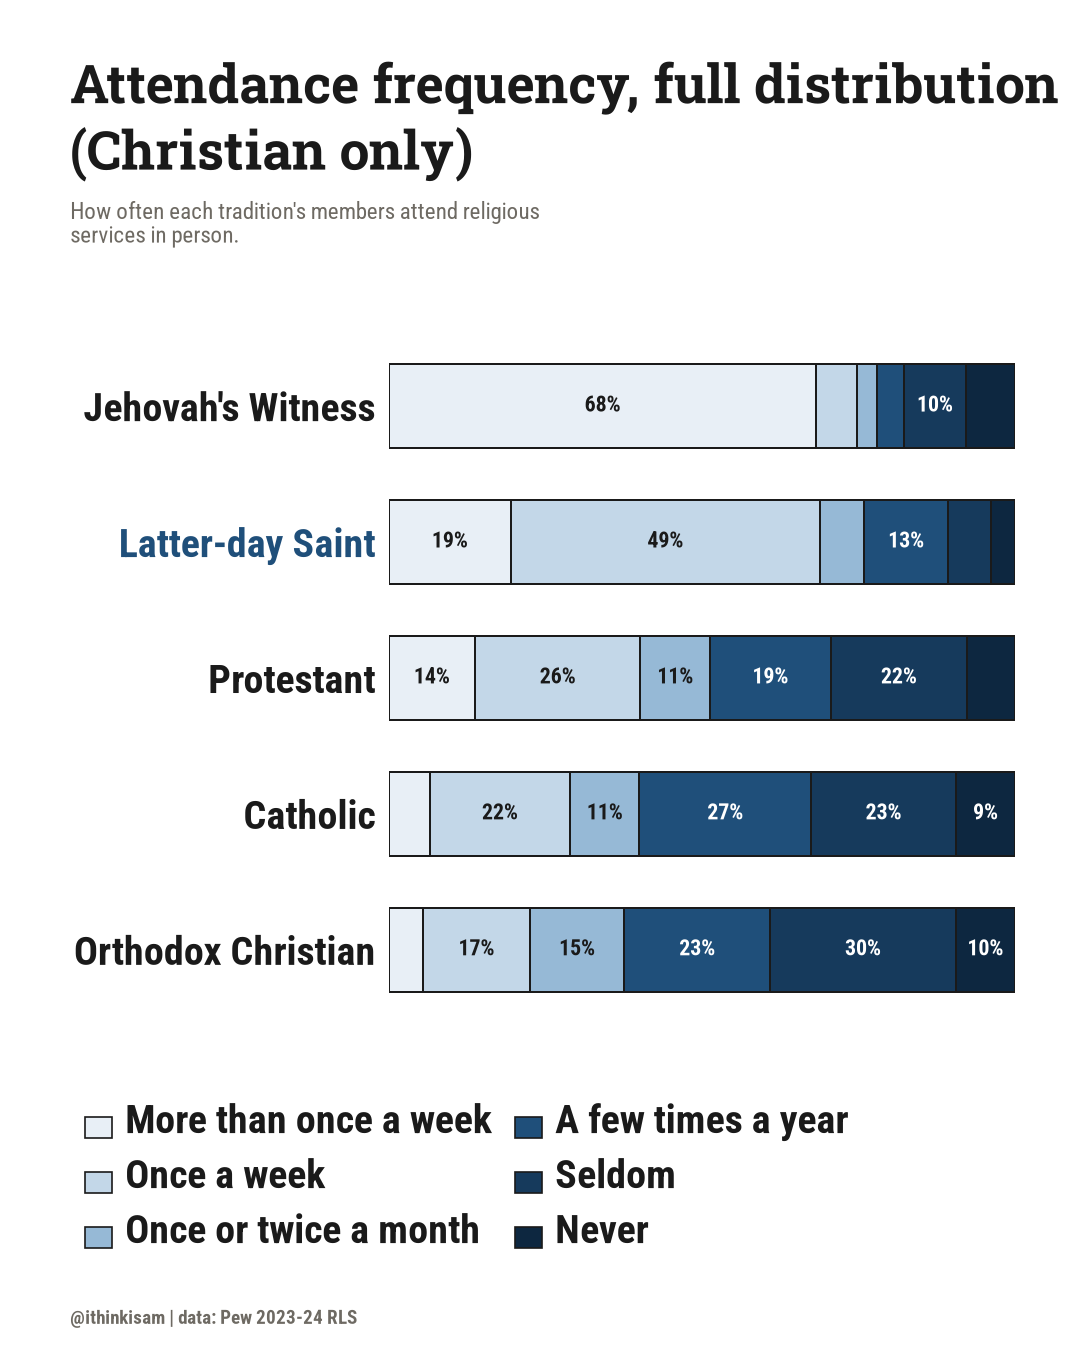
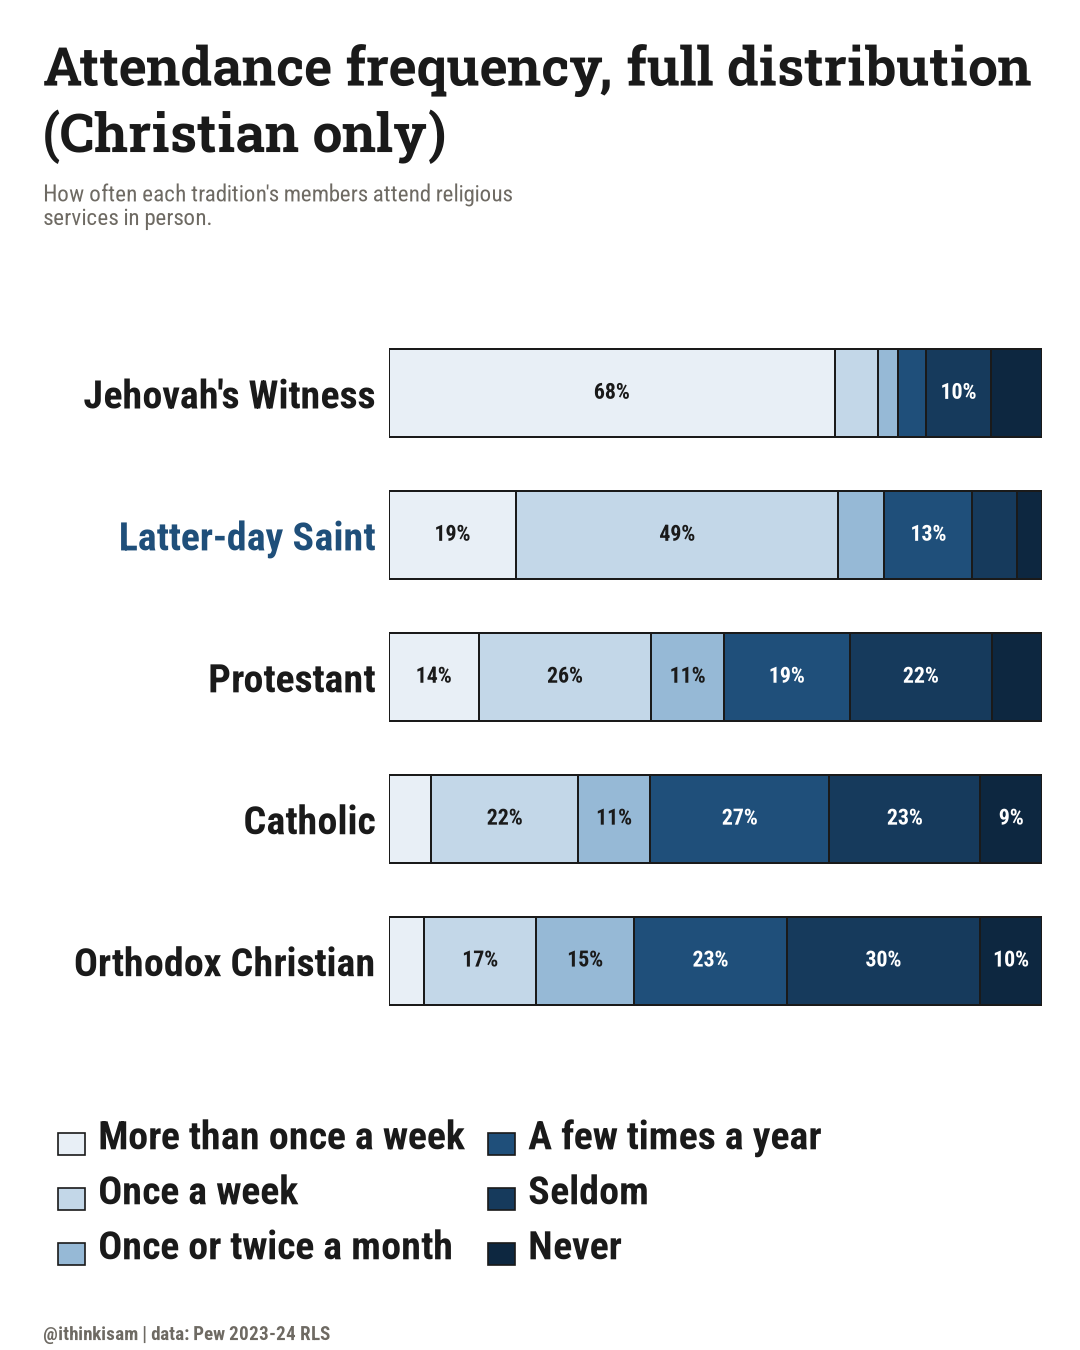
Shrink outer-edge buffers on the attendance distribution chart
_draw_title/_draw_caption/render_distribution_stack take optional
left_margin/top_margin/right_edge/bottom_margin overrides (defaults
unchanged everywhere else), so a chart's own content can fill more of the
canvas without touching every other chart's layout. Wired in for
"Attendance frequency, full distribution (Christian only)" alongside its
existing title/label/outline overrides.

diff --git a/scripts/pew-rls/render_practice_charts.py b/scripts/pew-rls/render_practice_charts.py
@@ -99,6 +99,7 @@ def load_fonts(fonts_dir: Path) -> dict[str, fm.FontProperties]:
 def _draw_title(
     fig, fonts, title: str, subtitle: str,
     title_fontsize: float = 26, title_wrap_width: int = 27,
+    left_margin: float = 0.065, top_margin: float = 0.965,
 ) -> float:
     """Returns the y-fraction where the subtitle block actually ends, so
     the caller can size its axes to the real available band instead of a
@@ -111,19 +112,25 @@ def _draw_title(
     require. Override both together (a wider wrap fits more per line, so
     a taller font doesn't cost extra wrapped lines) on a chart-by-chart
     basis rather than sitewide, since a wider default would need
-    re-checking every existing title for new/different wrap points."""
+    re-checking every existing title for new/different wrap points.
+
+    left_margin/top_margin are the outer-edge buffers (fraction of the
+    9x11.25in canvas) before the title text starts - defaults match every
+    other chart in this pipeline; shrink them on a chart-by-chart basis to
+    let that chart's content fill more of the canvas, same reasoning as
+    title_wrap_width above."""
     subtitle_fontsize = 13.5
     title_lines = textwrap.wrap(title, width=title_wrap_width)
     line_spacing = title_fontsize / 650
-    title_top = 0.965
+    title_top = top_margin
     for i, line in enumerate(title_lines):
         fig.text(
-            0.065, title_top - i * line_spacing, line,
+            left_margin, title_top - i * line_spacing, line,
             fontproperties=fonts["title"], fontsize=title_fontsize, color=INK, ha="left", va="top",
         )
     subtitle_y = title_top - len(title_lines) * line_spacing - 0.015
     fig.text(
-        0.065, subtitle_y, subtitle,
+        left_margin, subtitle_y, subtitle,
         fontproperties=fonts["regular"], fontsize=subtitle_fontsize, color=MUTED, ha="left", va="top",
     )
     subtitle_lines = subtitle.count("\n") + 1
@@ -131,10 +138,16 @@ def _draw_title(
     return subtitle_y - subtitle_lines * subtitle_line_height
 
 
-def _draw_caption(fig, fonts, total_n: int, note: str) -> float:
+def _draw_caption(
+    fig, fonts, total_n: int, note: str,
+    left_margin: float = 0.065, bottom_margin: float = 0.030,
+) -> float:
     """Bottom-anchored caption - see STYLE.md's "Footnotes: bottom-anchored"
     section. Returns caption_top for the vertical-centering contract."""
-    return draw_caption_bottom(fig, fonts, [], handle="@ithinkisam | data: Pew 2023-24 RLS")
+    return draw_caption_bottom(
+        fig, fonts, [], handle="@ithinkisam | data: Pew 2023-24 RLS",
+        left=left_margin, bottom=bottom_margin,
+    )
 
 
 def render_magnitude_bar(
@@ -192,15 +205,24 @@ def render_distribution_stack(
     group_label_fontsize: float | None = None,
     title_fontsize: float = 26, title_wrap_width: int = 27,
     box_edgecolor: str = PAPER,
+    left_margin: float = 0.065, top_margin: float = 0.965,
+    right_edge: float = 0.94, bottom_margin: float = 0.030,
 ) -> None:
+    """left_margin/top_margin/right_edge/bottom_margin are the outer-edge
+    canvas buffers (figure-fraction) - see _draw_title's docstring. Shrink
+    them together on a chart-by-chart basis to let that chart's own
+    content (bars, labels, legend) fill more of the canvas; defaults match
+    every other chart in this pipeline."""
     fig = plt.figure(figsize=(FIG_W_IN, FIG_H_IN), dpi=DPI)
     fig.patch.set_facecolor(PAPER)
 
     # Vertical centering, same approach as render_magnitude_bar above, with
     # extra bottom room reserved for the legend row below the axes. Caption
     # is drawn first (bottom-anchored) so its real top edge is known.
-    subtitle_bottom = _draw_title(fig, fonts, title, subtitle, title_fontsize, title_wrap_width)
-    caption_top = _draw_caption(fig, fonts, total_n, note)
+    subtitle_bottom = _draw_title(
+        fig, fonts, title, subtitle, title_fontsize, title_wrap_width, left_margin, top_margin,
+    )
+    caption_top = _draw_caption(fig, fonts, total_n, note, left_margin, bottom_margin)
     ax_top = subtitle_bottom - 0.03
 
     n_rows = len(group_order)
@@ -216,7 +238,7 @@ def render_distribution_stack(
     colors = [ORDINAL_RAMP_7[i] for i in step_idxs]
     text_colors = [LABEL_INK_FOR_STEP_7[i] for i in step_idxs]
 
-    AXES_LEFT, AXES_WIDTH = 0.36, 0.58
+    AXES_LEFT, AXES_WIDTH = 0.36, right_edge - 0.36
     ax = fig.add_axes([AXES_LEFT, ax_bottom, AXES_WIDTH, ax_top - ax_bottom])
     ax.set_facecolor(PAPER)
     ax.set_xticks([])
@@ -260,7 +282,7 @@ def render_distribution_stack(
     # not to the (narrower) axes box - so a long-label legend has the full
     # canvas width to lay out in rather than clipping past the right edge.
     legend = ax.legend(
-        handles=handles, loc="upper left", bbox_to_anchor=(0.065, legend_top_y),
+        handles=handles, loc="upper left", bbox_to_anchor=(left_margin, legend_top_y),
         bbox_transform=fig.transFigure,
         ncol=legend_ncol, frameon=False, handlelength=1.6, handleheight=1.6,
         fontsize=MIN.LEGEND, prop=fonts["bold"], columnspacing=1.4, labelspacing=0.9,

diff --git a/scripts/pew-rls/render_christian_only_variants.py b/scripts/pew-rls/render_christian_only_variants.py
@@ -69,13 +69,15 @@ def main() -> None:
         note=CHRISTIAN_NOTE, total_n=total_n,
         out_path=OUT_DIR / "practice-attend-distribution-christian.png", fonts=fonts,
         # Requested: group (y-axis) labels the same size as the legend key,
-        # a larger full-width title, and black box outlines so the palest
-        # blue segment/legend swatch reads against the white canvas -
-        # trying all three on this one chart first before rolling out
-        # further.
+        # a larger full-width title, black box outlines so the palest blue
+        # segment/legend swatch reads against the white canvas, and
+        # smaller outer-edge buffers so the chart itself fills more of the
+        # canvas - trying all four on this one chart first before rolling
+        # out further.
         group_label_fontsize=practice_r.MIN.LEGEND,
         title_fontsize=32, title_wrap_width=42,
         box_edgecolor=practice_r.INK,
+        left_margin=0.04, top_margin=0.978, right_edge=0.965, bottom_margin=0.018,
     )
     practice_r.render_magnitude_bar(
         practice["attend_monthly_plus_either"], NARROW_ORDER,
